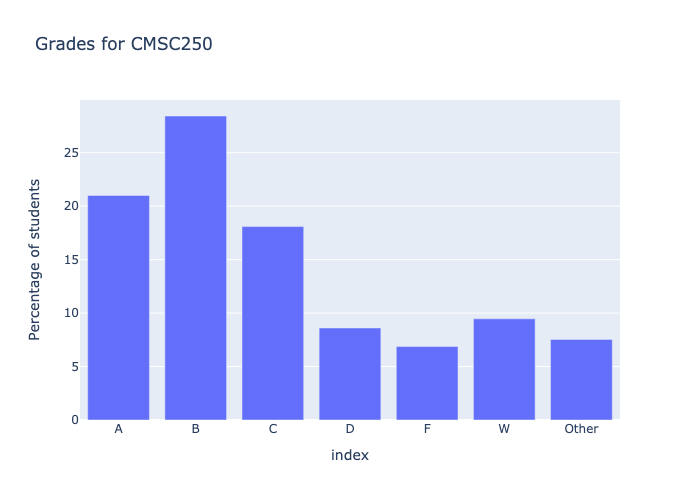
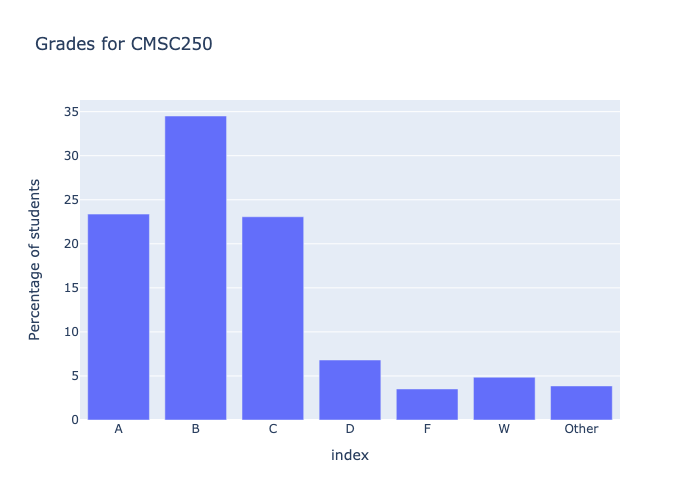
improved calculations

diff --git a/cogs/planetterp.py b/cogs/planetterp.py
@@ -29,10 +29,18 @@ class Planetterp(commands.Cog):
 
         #create dictionary for grades and counts
         grades = {
+            "A+": 0,
             "A": 0,
+            "A-": 0,
+            "B+": 0,
             "B": 0,
+            "B-": 0,
+            "C+": 0,
             "C": 0,
+            "C-": 0,
+            "D+": 0,
             "D": 0,
+            "D-": 0,
             "F": 0,
             "W": 0,
             "Other": 0
@@ -42,26 +50,38 @@ class Planetterp(commands.Cog):
         for item in gradesresponse:
             #go through each grade and add it to the dictionary
             for grade in grades:
-                #if the grade contains a + or -, remove the + or -
-                if grade in item:
-                    if '+' in grade:
-                        grade = grade.replace('+', '')
-                    elif '-' in grade:
-                        grade = grade.replace('-', '')
-                    #add the count to the dictionary
-                    grades[grade] += item[grade]
+                grades[grade] += item[grade]
+
+        #combine all - and + grades
+        grades['A'] += grades['A+'] + grades['A-']
+        grades['B'] += grades['B+'] + grades['B-']
+        grades['C'] += grades['C+'] + grades['C-']
+        grades['D'] += grades['D+'] + grades['D-']
+
+        #remove + and - grades
+        del grades['A+']
+        del grades['A-']
+        del grades['B+']
+        del grades['B-']
+        del grades['C+']
+        del grades['C-']
+        del grades['D+']
+        del grades['D-']
 
         gradesum = sum(grades.values())
+
+        #convert dictionary to percentages
+        for grade in grades:
+            grades[grade] = grades[grade] / gradesum * 100
+
         #convert dictionary to percentages
         # for grade in grades:
         #     grades[grade] = grades[grade] / gradesum * 100
 
 
 
-        print("Grades: " + str(grades))
 
         df = pd.DataFrame.from_dict(grades, orient='index', columns=['Percentage of students'])
-        print(df)
         fig = px.bar(df, x=df.index, y="Percentage of students", title=f'Grades for {coursename}')
         fig.write_image("grades.png")
         
